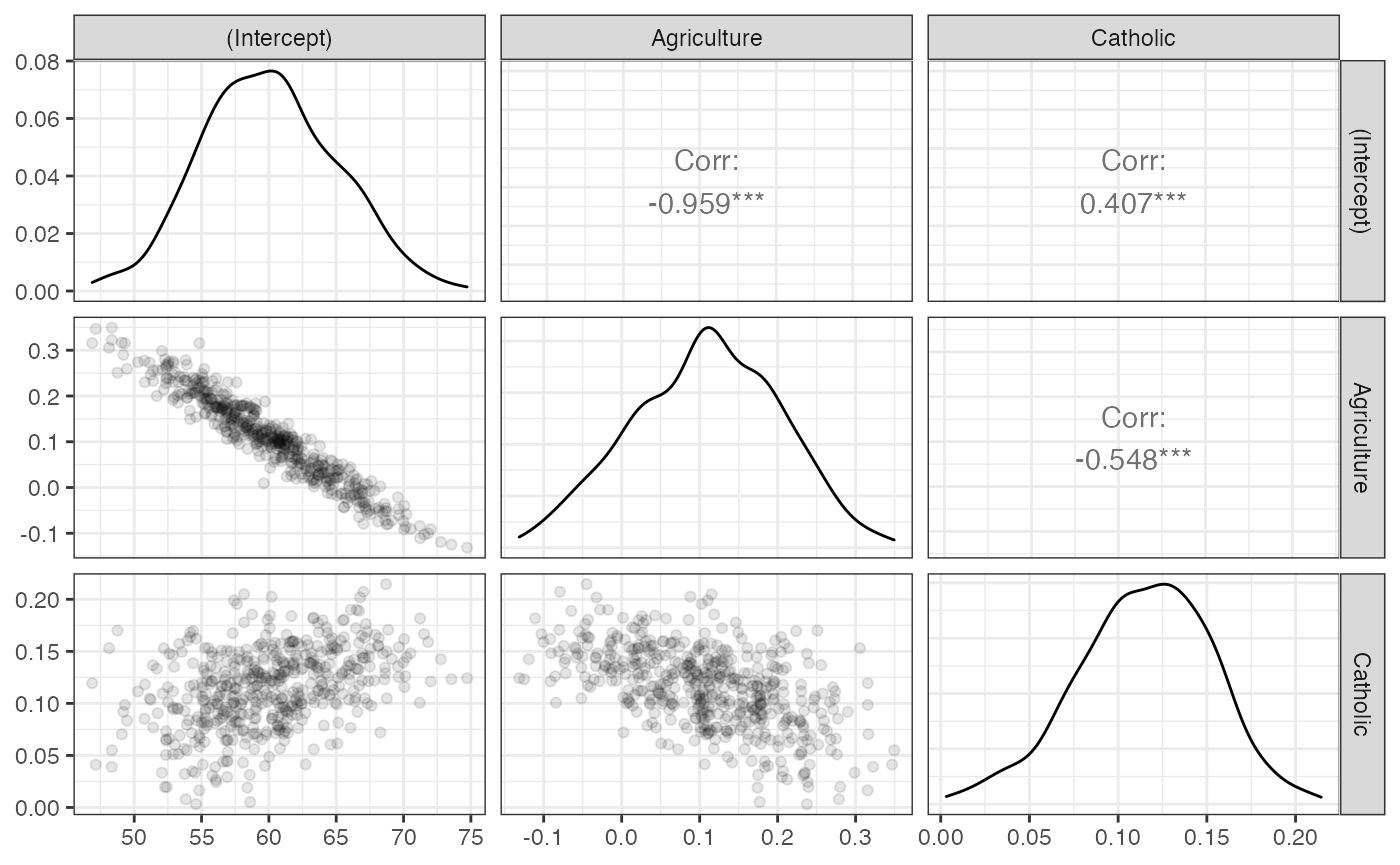
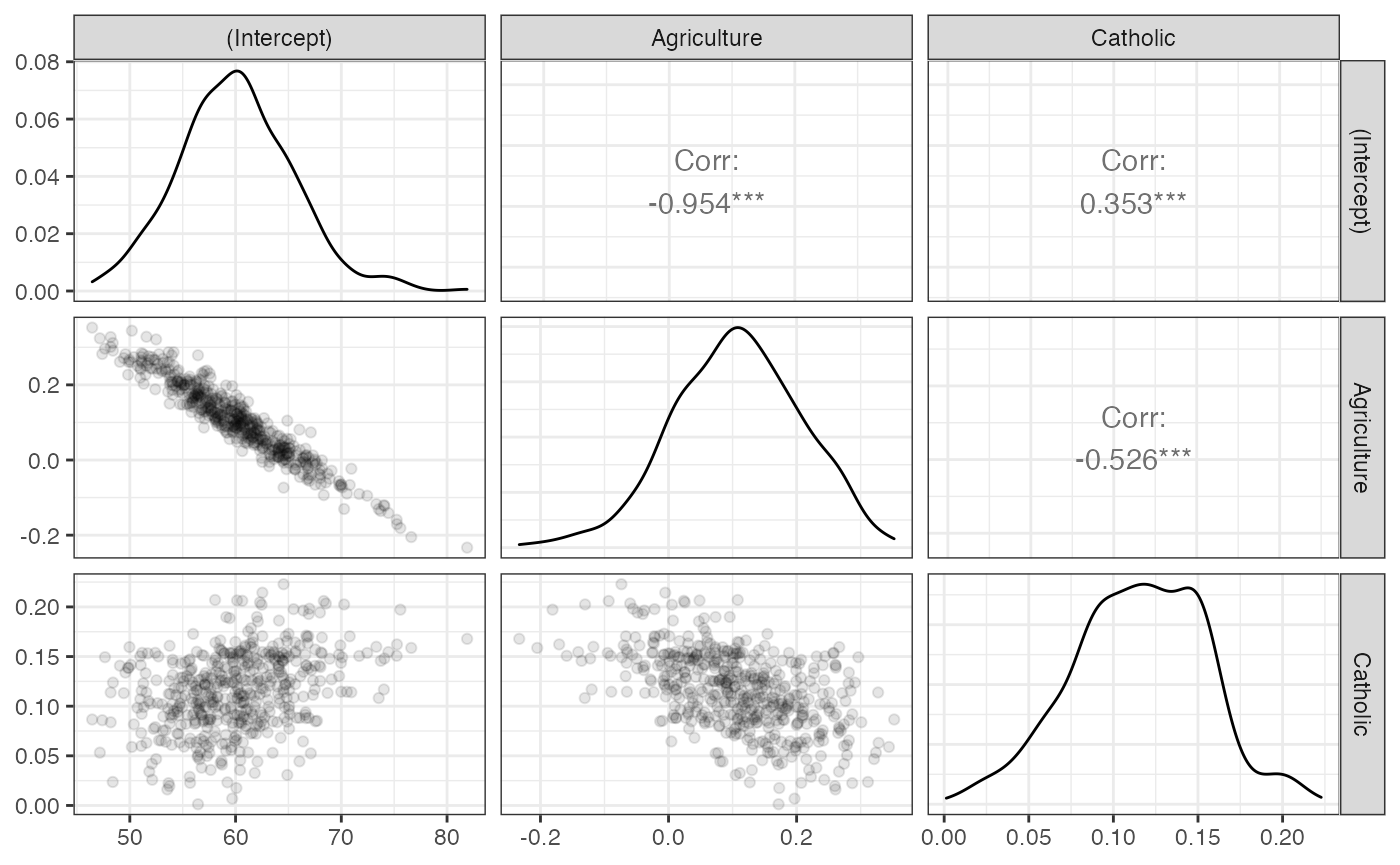
Deploying to gh-pages from  @ 72e1fd66c1514aa040905007cb2fb24cc526f358 🚀

diff --git a/r/estimatr/articles/estimatr-in-the-tidyverse.html b/r/estimatr/articles/estimatr-in-the-tidyverse.html
@@ -248,7 +248,7 @@
 <col width="11%">
 <col width="10%">
 <col width="9%">
-<col width="9%">
+<col width="10%">
 <col width="9%">
 <col width="10%">
 <col width="10%">
@@ -271,72 +271,72 @@
 <tr class="odd">
 <td align="left">1</td>
 <td align="left">(Intercept)</td>
-<td align="right">61.9790924</td>
-<td align="right">6.9579708</td>
-<td align="right">8.9076390</td>
+<td align="right">66.1276191</td>
+<td align="right">3.5905293</td>
+<td align="right">18.4172340</td>
 <td align="right">0.0000000</td>
-<td align="right">47.9562236</td>
-<td align="right">76.0019612</td>
+<td align="right">58.8913827</td>
+<td align="right">73.3638555</td>
 <td align="right">44</td>
 <td align="left">Fertility</td>
 </tr>
 <tr class="even">
 <td align="left">1</td>
 <td align="left">Catholic</td>
-<td align="right">0.1037991</td>
-<td align="right">0.0481120</td>
-<td align="right">2.1574457</td>
-<td align="right">0.0364719</td>
-<td align="right">0.0068357</td>
-<td align="right">0.2007626</td>
+<td align="right">0.1301128</td>
+<td align="right">0.0277433</td>
+<td align="right">4.6898743</td>
+<td align="right">0.0000267</td>
+<td align="right">0.0741998</td>
+<td align="right">0.1860258</td>
 <td align="right">44</td>
 <td align="left">Fertility</td>
 </tr>
 <tr class="odd">
 <td align="left">1</td>
 <td align="left">Agriculture</td>
-<td align="right">0.0961441</td>
-<td align="right">0.1425199</td>
-<td align="right">0.6746015</td>
-<td align="right">0.5034583</td>
-<td align="right">-0.1910858</td>
-<td align="right">0.3833740</td>
+<td align="right">-0.0059962</td>
+<td align="right">0.0555551</td>
+<td align="right">-0.1079319</td>
+<td align="right">0.9145404</td>
+<td align="right">-0.1179602</td>
+<td align="right">0.1059679</td>
 <td align="right">44</td>
 <td align="left">Fertility</td>
 </tr>
 <tr class="even">
 <td align="left">2</td>
 <td align="left">(Intercept)</td>
-<td align="right">61.1616242</td>
-<td align="right">7.1660215</td>
-<td align="right">8.5349485</td>
+<td align="right">51.1169843</td>
+<td align="right">5.9812570</td>
+<td align="right">8.5461943</td>
 <td align="right">0.0000000</td>
-<td align="right">46.7194568</td>
-<td align="right">75.6037915</td>
+<td align="right">39.0625530</td>
+<td align="right">63.1714156</td>
 <td align="right">44</td>
 <td align="left">Fertility</td>
 </tr>
 <tr class="odd">
 <td align="left">2</td>
 <td align="left">Catholic</td>
-<td align="right">0.0965737</td>
-<td align="right">0.0337331</td>
-<td align="right">2.8628735</td>
-<td align="right">0.0064065</td>
-<td align="right">0.0285890</td>
-<td align="right">0.1645583</td>
+<td align="right">0.1156347</td>
+<td align="right">0.0363839</td>
+<td align="right">3.1781800</td>
+<td align="right">0.0027115</td>
+<td align="right">0.0423077</td>
+<td align="right">0.1889618</td>
 <td align="right">44</td>
 <td align="left">Fertility</td>
 </tr>
 <tr class="even">
 <td align="left">2</td>
 <td align="left">Agriculture</td>
-<td align="right">0.1116908</td>
-<td align="right">0.1308384</td>
-<td align="right">0.8536548</td>
-<td align="right">0.3979199</td>
-<td align="right">-0.1519966</td>
-<td align="right">0.3753782</td>
+<td align="right">0.2843236</td>
+<td align="right">0.1087031</td>
+<td align="right">2.6155975</td>
+<td align="right">0.0121564</td>
+<td align="right">0.0652469</td>
+<td align="right">0.5034004</td>
 <td align="right">44</td>
 <td align="left">Fertility</td>
 </tr>
@@ -350,9 +350,9 @@
 <pre><code>## # A tibble: 3 x 2
 ##   term        boot_se
 ##   &lt;chr&gt;         &lt;dbl&gt;
-## 1 (Intercept)  4.97  
-## 2 Agriculture  0.0943
-## 3 Catholic     0.0380</code></pre>
+## 1 (Intercept)  5.41  
+## 2 Agriculture  0.100 
+## 3 Catholic     0.0394</code></pre>
 <div class="sourceCode" id="cb15"><pre class="downlit sourceCode r">
 <code class="sourceCode R"><span class="co"># To visualize the sampling distribution</span>
 

diff --git a/r/estimatr/articles/absorbing-fixed-effects.html b/r/estimatr/articles/absorbing-fixed-effects.html
@@ -191,9 +191,9 @@
 <span class="op">)</span></code></pre></div>
 <pre><code>## Unit: milliseconds
 ##             expr       min        lq      mean    median        uq      max
-##  base + sandwich 170.50716 174.57765 186.10973 177.79168 182.35402 300.7320
-##        lm_robust  76.98945  81.65812  85.51618  84.13359  87.44128 106.7234
-##  lm_robust + fes  50.13986  51.79409  56.29289  53.52366  55.40791 186.6647
+##  base + sandwich 175.74435 179.21639 190.76178 181.10980 183.41255 334.7184
+##        lm_robust  80.81571  82.26234  85.77592  84.34127  88.00932 114.7533
+##  lm_robust + fes  51.10130  52.83311  57.83969  53.58357  56.91833 226.6207
 ##  neval cld
 ##     50   c
 ##     50  b 
@@ -221,13 +221,13 @@
 <span class="op">)</span></code></pre></div>
 <pre><code>## Unit: milliseconds
 ##             expr        min         lq      mean     median         uq
-##  base + sandwich 171.757971 176.707852 188.77388 178.479537 183.427895
-##        lm_robust  62.659774  64.134976  67.06050  66.116985  69.008449
-##  lm_robust + fes   7.390941   7.735847   9.27658   8.464737   9.932465
+##  base + sandwich 175.545471 179.208173 193.01407 181.043879 183.395486
+##        lm_robust  63.507512  65.671005  68.49361  67.986890  71.172702
+##  lm_robust + fes   8.353123   8.556481  10.11914   9.209646   9.880261
 ##        max neval cld
-##  308.56408    50   c
-##   81.35176    50  b 
-##   15.16462    50 a</code></pre>
+##  326.89969    50   c
+##   76.80693    50  b 
+##   14.56987    50 a</code></pre>
 </div>
   </div>
 

diff --git a/r/estimatr/reference/starprep.html b/r/estimatr/reference/starprep.html
@@ -239,7 +239,7 @@ the preferred, robust statistics.</p>
           omit.stat <span class='op'>=</span> <span class='st'>"f"</span><span class='op'>)</span>
 </div><div class='output co'>#&gt; 
 #&gt; % Table created by stargazer v.5.2.2 by Marek Hlavac, Harvard University. E-mail: hlavac at fas.harvard.edu
-#&gt; % Date and time: Wed, Mar 31, 2021 - 23:07:40
+#&gt; % Date and time: Thu, Apr 01, 2021 - 23:20:52
 #&gt; \begin{table}[!htbp] \centering 
 #&gt;   \caption{} 
 #&gt;   \label{} 
@@ -279,7 +279,7 @@ the preferred, robust statistics.</p>
           omit.stat <span class='op'>=</span> <span class='st'>"f"</span><span class='op'>)</span>
 </div><div class='output co'>#&gt; 
 #&gt; % Table created by stargazer v.5.2.2 by Marek Hlavac, Harvard University. E-mail: hlavac at fas.harvard.edu
-#&gt; % Date and time: Wed, Mar 31, 2021 - 23:07:40
+#&gt; % Date and time: Thu, Apr 01, 2021 - 23:20:52
 #&gt; \begin{table}[!htbp] \centering 
 #&gt;   \caption{} 
 #&gt;   \label{} 
@@ -316,7 +316,7 @@ the preferred, robust statistics.</p>
           omit.stat <span class='op'>=</span> <span class='st'>"f"</span><span class='op'>)</span>
 </div><div class='output co'>#&gt; 
 #&gt; % Table created by stargazer v.5.2.2 by Marek Hlavac, Harvard University. E-mail: hlavac at fas.harvard.edu
-#&gt; % Date and time: Wed, Mar 31, 2021 - 23:07:40
+#&gt; % Date and time: Thu, Apr 01, 2021 - 23:20:52
 #&gt; \begin{table}[!htbp] \centering 
 #&gt;   \caption{} 
 #&gt;   \label{} 

diff --git a/r/estimatr/articles/regression-tables.html b/r/estimatr/articles/regression-tables.html
@@ -258,7 +258,7 @@
 <span class="va">fit</span> <span class="op">&lt;-</span> <span class="fu"><a href="../reference/lm_robust.html">lm_robust</a></span><span class="op">(</span><span class="va">mpg</span> <span class="op">~</span> <span class="va">disp</span>, data <span class="op">=</span> <span class="va">mtcars</span><span class="op">)</span>
 <span class="va">fit</span> <span class="op">%&gt;%</span> <span class="va">tidy</span> <span class="op">%&gt;%</span> <span class="fu"><a href="https://rdrr.io/pkg/xtable/man/xtable.html">xtable</a></span><span class="op">(</span><span class="op">)</span></code></pre></div>
 <pre><code>## % latex table generated in R 4.0.4 by xtable 1.8-4 package
-## % Wed Mar 31 23:08:46 2021
+## % Thu Apr  1 23:22:03 2021
 ## \begin{table}[ht]
 ## \centering
 ## \begin{tabular}{rlrrrrrrrl}
